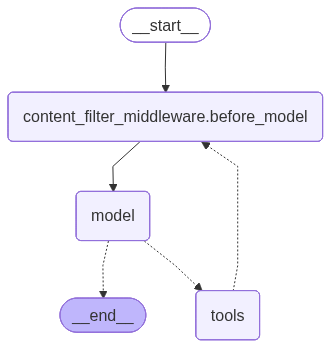
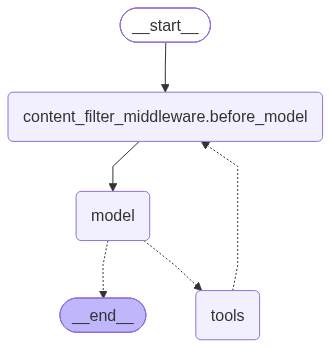
ADC 인증방식 코드 변경 및 실습 결과

diff --git a/CHAP6_single-agent/coding_agent/agent.py b/CHAP6_single-agent/coding_agent/agent.py
@@ -10,6 +10,7 @@
 #   자동 변속기(오토매틱) 자동차입니다!
 # ============================================================================
 
+import os
 from dotenv import load_dotenv
 
 # 단 한 줄로 도구 호출형 에이전트 그래프를 만들어주는 create_agent를 가져옵니다.
@@ -28,7 +29,16 @@ load_dotenv()
 tools = [python_exec_tool, file_write_tool]
 
 # 코딩 에이전트의 두뇌가 될 Gemini 3.8 Flash 모델을 준비합니다.
-llm = ChatGoogleGenerativeAI(model="gemini-3.8-flash")
+project_id = os.getenv("GOOGLE_CLOUD_PROJECT", "iceu-songpa04")
+location = os.getenv("GOOGLE_CLOUD_LOCATION", "global")
+
+# 코딩 에이전트의 두뇌가 될 Gemini 3.8 Flash 모델을 준비합니다 (ADC 방식 인증).
+llm = ChatGoogleGenerativeAI(
+    model="gemini-3.8-flash",
+    vertexai=True,
+    project=project_id,
+    location=location,
+)
 # llm = ChatAnthropic(model="claude-opus-4-1-20250805") # 책의 실행 결과는 본 클로드 모델을 사용하여 나온 결과입니다.
 
 # create_agent: 모델과 도구만 전달하면 내부적으로 [모델 -> 도구 실행 -> 모델] 순환 그래프를 자동 생성합니다!
@@ -45,7 +55,7 @@ if __name__ == "__main__":
     response = graph.stream(
         {
             "messages": [
-                "첫번째 항이 1인 피보나치 수열을 출력하는 파이썬 코드를 작성해주세요. 정상적으로 실행되는 지 확인도 해주세요. ",
+                "첫번째 항이 1인 피보나치 수열을 출력하는 파이썬 코드를 작성해주세요. 정상적으로 실행되는지 확인도 해주세요. ",
                 "확인했다면 그 코드는 .py 파일로 저장하세요."
             ]
         }

diff --git a/CHAP6_single-agent/create_agent/middleware_with_node.py b/CHAP6_single-agent/create_agent/middleware_with_node.py
@@ -13,6 +13,7 @@
 #      "이번 손님에게는 존댓말(또는 반말)로 대답해!"라고 **귓속말(시스템 프롬프트)**만 살짝 넣어주는 방식입니다.
 # ============================================================================
 
+import os
 from dotenv import load_dotenv
 
 from langchain_google_genai import ChatGoogleGenerativeAI
@@ -26,8 +27,16 @@ from tools import tools
 load_dotenv()
 
 
-# ===== 모델 정의 =====
-model = ChatGoogleGenerativeAI(model="gemini-3.8-flash")
+project_id = os.getenv("GOOGLE_CLOUD_PROJECT", "iceu-songpa04")
+location = os.getenv("GOOGLE_CLOUD_LOCATION", "global")
+
+# ===== 모델 정의 (ADC 방식 인증) =====
+model = ChatGoogleGenerativeAI(
+    model="gemini-3.8-flash",
+    vertexai=True,
+    project=project_id,
+    location=location,
+)
 
 # 금지어 목록 (보안 검색대에서 적발할 나쁜 말 리스트)
 BLOCKED_WORDS = ["바보", "멍청이", "나쁜말"]

diff --git a/CHAP6_single-agent/create_agent/middleware.py b/CHAP6_single-agent/create_agent/middleware.py
@@ -1,3 +1,4 @@
+import os
 from dotenv import load_dotenv
 
 from langchain_google_genai import ChatGoogleGenerativeAI
@@ -9,9 +10,22 @@ from tools import tools
 load_dotenv()
 
 
-# ===== 모델 정의 =====
-basic_model = ChatGoogleGenerativeAI(model="gemini-3.8-flash") # [ 1 ]
-advanced_model = ChatGoogleGenerativeAI(model="gemini-3.8-flash")
+project_id = os.getenv("GOOGLE_CLOUD_PROJECT", "iceu-songpa04")
+location = os.getenv("GOOGLE_CLOUD_LOCATION", "global")
+
+# ===== 모델 정의 (ADC 방식 인증) =====
+basic_model = ChatGoogleGenerativeAI(
+    model="gemini-3.8-flash",
+    vertexai=True,
+    project=project_id,
+    location=location,
+) # [ 1 ]
+advanced_model = ChatGoogleGenerativeAI(
+    model="gemini-3.8-flash",
+    vertexai=True,
+    project=project_id,
+    location=location,
+)
 
 
 # ===== 미들웨어 정의 =====

diff --git a/fibonacci.py b/fibonacci.py
@@ -1,0 +1,17 @@
+def fibonacci(n):
+    """첫 번째 항이 1인 피보나치 수열의 첫 n개 항을 반환합니다."""
+    if n <= 0:
+        return []
+    elif n == 1:
+        return [1]
+    
+    fib_seq = [1, 1]
+    for _ in range(2, n):
+        fib_seq.append(fib_seq[-1] + fib_seq[-2])
+    return fib_seq
+
+
+if __name__ == "__main__":
+    n = 10
+    result = fibonacci(n)
+    print(f"피보나치 수열 (처음 {n}개 항): {result}")
